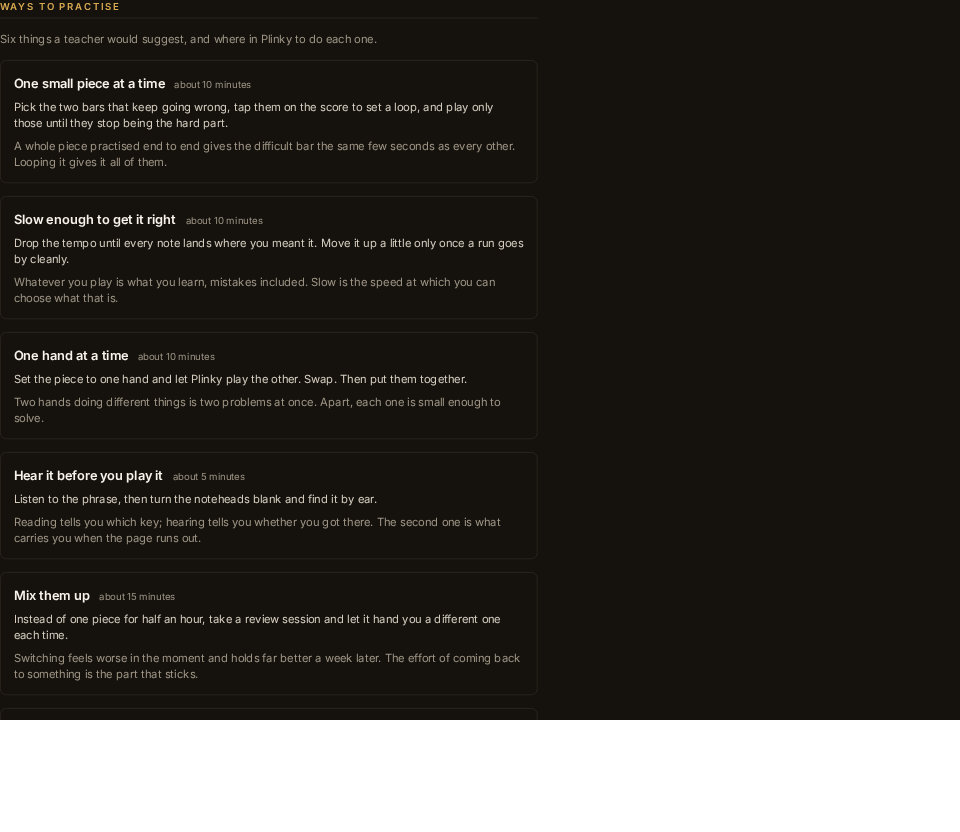
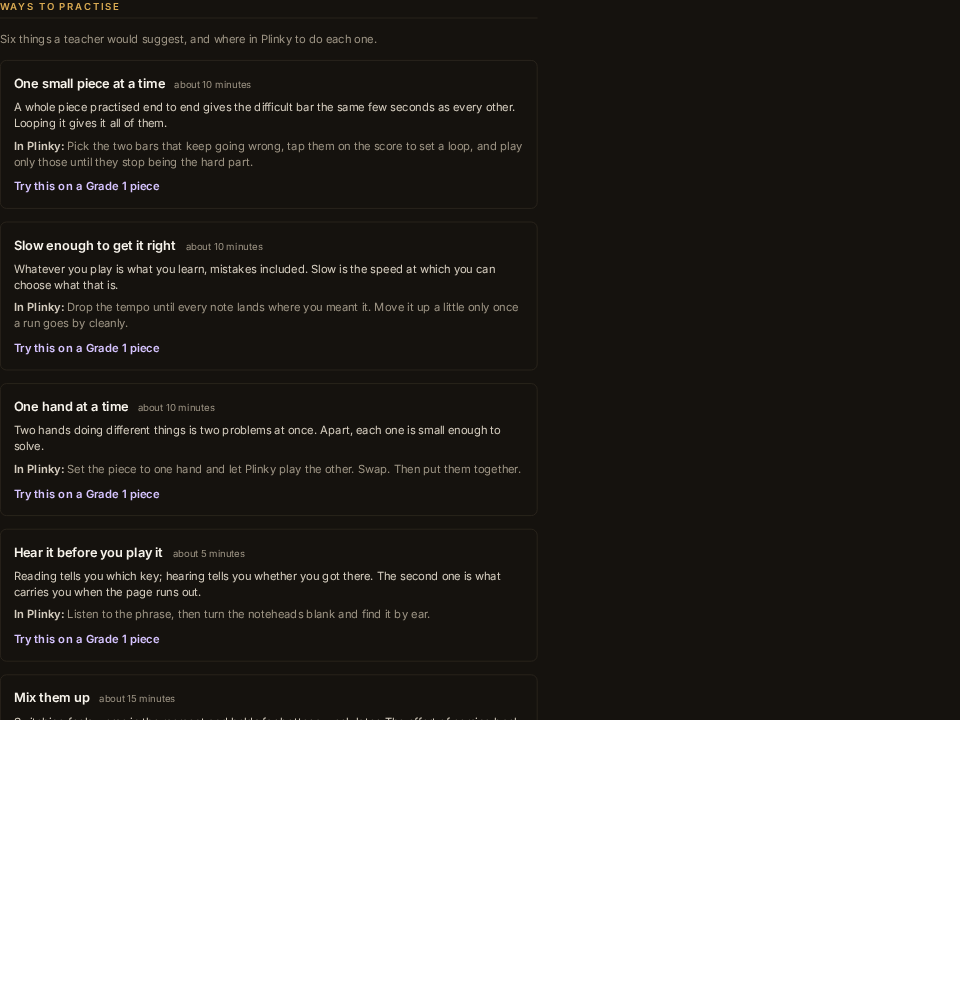
feat(methods): each way to practise opens a piece with it already set up
The page named six methods and pointed at the controls in words. It now hands you
the control: every method carries a button that opens a piece at the player's own
grade with the method already applied — sixty per cent tempo, left hand alone, a
loop over the opening phrase. A suggestion that ends at "go and find something"
is advice rather than practice, and a library of three thousand pieces is a wall
to the beginner this page is written for.

The reason now leads and the instruction follows it under "In Plinky". Somebody
who does not yet know why looping two bars beats replaying the piece will not
reach for the loop, and the why is the half a beginner has never been told.

Mixing pieces up and coming back to something later point at the review queue
instead. Handing over a piece chosen at random would be the exact opposite of
both methods — deciding which piece and when is the queue's whole job.

Which piece each button offers is seeded by the method id, so it is stable across
a re-render rather than swapping under somebody who is reading it, and the six do
not all offer the same piece. No button at all where the grade holds nothing: one
that says "try this" and lands nowhere is worse than the reading alone.

The home page's own "just start something" already exists as Surprise me, which
is grade-aware, mastery-aware and ordered gentlest-first — nothing to add there.

App budget 375 to 376 KB.

Changed region(s): [[0.0, 0.6875, 1.0, 0.875], [0.0, 0.0, 0.5625, 0.375], [0.0, 0.4062, 0.5312, 0.6562]]

diff --git a/app/components/features/practiceMethods.tsx b/app/components/features/practiceMethods.tsx
@@ -1,7 +1,12 @@
 // SPDX-FileCopyrightText: The Plinky Authors
 // SPDX-License-Identifier: AGPL-3.0-or-later
 
-import { type MethodId, METHODS } from "../../../core/practiceMethods";
+import { Link } from "react-router";
+import { pickForGrade } from "../../../core/pickForGrade";
+import { playOptionsQuery } from "../../../core/playOptions";
+import { type MethodId, METHODS, type PracticeMethod } from "../../../core/practiceMethods";
+import { useMusicItems } from "../../hooks/useMusicItems";
+import { useServices } from "../../contexts/services";
 import { Card } from "../ui/card";
 import { sectionHeadingClasses } from "../ui/classes";
 import { m } from "../../paraglide/messages.js";
@@ -33,14 +38,55 @@ const WHY: Record<MethodId, () => string> = {
     spacing: () => m.method_spacing_why(),
 };
 
-// Six ways to practise: what each one is, how long a go at it takes, and why it works.
+// One method's own button. It opens a piece at the player's grade with the method already
+// set up — slowed down, one hand, looping the opening phrase — because a suggestion that
+// ends at "go and find something" is advice rather than practice, and a library of three
+// thousand pieces is a wall to the beginner this page is written for.
 //
-// Nothing here carries an action. Three of the six are done with a control inside a run's
-// set-up panel, so a button could only ever land on the catalogue and leave the reader to
-// find the control — and four of them pointed at the library, which made a page of advice
-// read as a row of ways to go somewhere else. The reading is the point; the practice is
-// wherever the player already was.
+// The two methods that are not about a single piece point at the review queue instead.
+// Handing somebody a random piece would be the exact opposite of "mix them up" and "come
+// back to it later": the queue's whole job is choosing which piece and when.
+//
+// No button at all when the grade holds nothing to offer — a dead button that says "try
+// this" and lands nowhere is worse than the reading alone.
+function MethodAction({ method, grade }: { method: PracticeMethod; grade: number }) {
+    const { items } = useMusicItems();
+
+    if (method.route) {
+        return (
+            <Link
+                to={method.route}
+                className="inline-block text-sm font-semibold text-accent-strong hover:underline"
+            >
+                {m.methods_review()}
+            </Link>
+        );
+    }
+    // Seeded by the method, so each suggestion offers its own piece and none of them
+    // changes under the reader on a re-render.
+    const piece = pickForGrade(items, grade, method.id);
+    if (!piece || !method.opens) return null;
+    return (
+        <Link
+            to={`/play/${piece.id}${playOptionsQuery(method.opens)}`}
+            className="inline-block text-sm font-semibold text-accent-strong hover:underline"
+        >
+            {m.methods_try({ grade })}
+        </Link>
+    );
+}
+
+// Six ways to practise: why each one works, what Plinky gives you to do it with, and a
+// button that opens a piece with it already set up.
+//
+// The reason leads and the instruction follows, because somebody who does not yet know why
+// looping two bars beats playing the piece again will not reach for the loop. The button is
+// last: read, then do.
 export function PracticeMethods() {
+    const services = useServices();
+    // Read every render rather than memoised — a grade reached while the page is open
+    // should change what the buttons offer.
+    const grade = Math.max(1, services.milestones.reachedGrade());
     return (
         <section className="space-y-4">
             <h2 className={sectionHeadingClasses}>{m.methods_title()}</h2>
@@ -58,8 +104,17 @@ export function PracticeMethods() {
                                     {m.methods_dose({ count: method.minutes })}
                                 </span>
                             </div>
-                            <p className="text-sm text-body">{HOW[method.id]()}</p>
-                            <p className="text-sm text-muted">{WHY[method.id]()}</p>
+                            {/* The reason first: it is what makes the instruction worth
+                                following, and it is the half a beginner has never been
+                                told. */}
+                            <p className="text-sm text-body">{WHY[method.id]()}</p>
+                            <p className="text-sm text-muted">
+                                <span className="font-semibold text-body">
+                                    {m.methods_in_plinky()}:
+                                </span>{" "}
+                                {HOW[method.id]()}
+                            </p>
+                            <MethodAction method={method} grade={grade} />
                         </Card>
                     </li>
                 ))}

diff --git a/app/components/features/practiceMethods.test.tsx b/app/components/features/practiceMethods.test.tsx
@@ -2,28 +2,83 @@
 // SPDX-License-Identifier: AGPL-3.0-or-later
 // @vitest-environment jsdom
 
-import { cleanup, render, screen } from "@testing-library/react";
+import { cleanup, screen, waitFor } from "@testing-library/react";
+import { MemoryRouter } from "react-router";
 import { afterEach, describe, expect, it } from "vitest";
 import { METHODS } from "../../../core/practiceMethods";
 import { m } from "../../paraglide/messages.js";
+import { renderWithServices } from "../../testing/renderWithServices";
 import { PracticeMethods } from "./practiceMethods";
+
+const mount = () =>
+    renderWithServices(
+        <MemoryRouter>
+            <PracticeMethods />
+        </MemoryRouter>,
+    );
 
 afterEach(cleanup);
 
 describe("PracticeMethods", () => {
     it("names every method with its dose", () => {
-        render(<PracticeMethods />);
+        mount();
         expect(screen.getByRole("heading", { name: m.methods_title() })).toBeTruthy();
         expect(screen.getAllByRole("listitem")).toHaveLength(METHODS.length);
         expect(screen.getByText(m.method_chunking_name())).toBeTruthy();
         expect(screen.getByText(m.methods_dose({ count: 15 }))).toBeTruthy();
     });
 
-    it("offers nothing to press", () => {
-        render(<PracticeMethods />);
-        // Three of the six are done with a control inside a run, so a button could only
-        // land on a catalogue — the reading is the whole of it.
-        expect(screen.queryAllByRole("link")).toHaveLength(0);
-        expect(screen.queryAllByRole("button")).toHaveLength(0);
+    it("leads with the reason and follows with what Plinky gives you", () => {
+        mount();
+        // Somebody who does not know why looping two bars beats replaying the piece will
+        // not reach for the loop, so the reason comes first and is not labelled.
+        expect(screen.getByText(m.method_chunking_why())).toBeTruthy();
+        expect(screen.getAllByText(`${m.methods_in_plinky()}:`).length).toBe(METHODS.length);
+    });
+
+    it("sends the two methods that are not about one piece to the review queue", async () => {
+        mount();
+        await waitFor(() => {
+            const review = screen.getAllByRole("link", { name: m.methods_review() });
+            expect(review).toHaveLength(2);
+            for (const link of review) {
+                expect(link.getAttribute("href")).toContain("/review");
+            }
+        });
+    });
+
+    it("opens a piece with the method already set up on it", async () => {
+        mount();
+        // The four methods that are about one piece each offer a piece, and the address
+        // carries the method: the button IS the control, not a signpost to it.
+        await waitFor(() => {
+            const hrefs = screen
+                .getAllByRole("link")
+                .map((link) => link.getAttribute("href") ?? "")
+                .filter((href) => href.startsWith("/play/"));
+            expect(hrefs).toHaveLength(4);
+            expect(hrefs.some((href) => href.includes("speed=0.6"))).toBe(true);
+            expect(hrefs.some((href) => href.includes("hands=left"))).toBe(true);
+            expect(hrefs.some((href) => href.includes("loop=1-4"))).toBe(true);
+            // Hearing it first needs no set-up in the address — the switch is on the
+            // surface the link opens.
+            expect(hrefs.some((href) => !href.includes("?"))).toBe(true);
+        });
+    });
+
+    it("offers each method its own piece rather than the same one six times", async () => {
+        mount();
+        await waitFor(() => {
+            const pieces = screen
+                .getAllByRole("link")
+                .map((link) => link.getAttribute("href") ?? "")
+                .filter((href) => href.startsWith("/play/"))
+                .map((href) => href.split("?")[0]);
+            expect(pieces).toHaveLength(4);
+            // Seeded by method id, so which piece each one offers is stable but they are
+            // not all the same piece — on a shelf with only the bundled demos on it, at
+            // least two of the four differ.
+            expect(new Set(pieces).size).toBeGreaterThan(1);
+        });
     });
 });

diff --git a/core/practiceMethods.ts b/core/practiceMethods.ts
@@ -13,6 +13,8 @@
 // Ids only, no words: the labels live in the message catalogue like the theory
 // exercise names do, so this stays translatable without translating anything here.
 
+import type { PlayOptions } from "./playOptions";
+
 export type MethodId =
     | "chunking"
     | "slow"
@@ -26,15 +28,31 @@ export type PracticeMethod = {
     // Roughly how long one go at it takes, in minutes — the "dose" that turns a
     // method from an idea into something that fits in tonight's practice.
     minutes: number;
+    // How a piece opens when the method's own button is pressed, so the suggestion hands
+    // over the control that does the thing rather than describing where to find it.
+    // Absent where the method is not about one piece at all: mixing pieces up and coming
+    // back to something later are answered by the review queue, which has its own page.
+    opens?: PlayOptions;
+    // Where the button goes when the method is not a piece to open.
+    route?: string;
 };
 
 export const METHODS: PracticeMethod[] = [
-    { id: "chunking", minutes: 10 },
-    { id: "slow", minutes: 10 },
-    { id: "handsApart", minutes: 10 },
+    // Bars 1 to 4 rather than "the hard part": nothing here knows which bars are hard, and
+    // opening the loop over the first phrase at least starts you inside the control, with
+    // the bars adjustable from the bar itself.
+    { id: "chunking", minutes: 10, opens: { loop: { from: 1, to: 4 } } },
+    // Sixty per cent: slow enough that the notes have time to be chosen, fast enough that
+    // the piece is still a piece.
+    { id: "slow", minutes: 10, opens: { speed: 0.6 } },
+    { id: "handsApart", minutes: 10, opens: { hands: "left" } },
     // Its own words are "listen to the phrase, then turn the noteheads blank and find it
-    // by ear" — which is the hidden-notes switch on a piece, not the interval drill.
-    { id: "hearingFirst", minutes: 5 },
-    { id: "interleaving", minutes: 15 },
-    { id: "spacing", minutes: 10 },
+    // by ear" — which is the hidden-notes switch on a piece, not the interval drill. It
+    // opens the piece plain; the switch is on the surface it opens.
+    { id: "hearingFirst", minutes: 5, opens: {} },
+    // These two are not about one piece. Mixing them up IS the review session, and coming
+    // back later is the queue deciding when — so both point at the page that does it
+    // rather than at a piece chosen at random, which would be the opposite of the method.
+    { id: "interleaving", minutes: 15, route: "/review" },
+    { id: "spacing", minutes: 10, route: "/review" },
 ];

diff --git a/app/components/features/practiceMethods.stories.tsx b/app/components/features/practiceMethods.stories.tsx
@@ -19,7 +19,8 @@ export default meta;
 
 type Story = StoryObj<typeof PracticeMethods>;
 
-// Six ways to practise: what each is, how long a go takes, and why it works.
-// Nothing here carries an action — the reading is the point, and the practice is
-// wherever the player already was.
+// Six ways to practise: why each one works, what Plinky gives you to do it with, and a
+// button that opens a piece with the method already set up on it. The reason leads,
+// because somebody who does not know why looping two bars beats replaying the piece will
+// not reach for the loop.
 export const All: Story = {};

diff --git a/README.md b/README.md
@@ -553,10 +553,17 @@ schedule rather than from anything you set. Give a piece a date you're working t
 — an exam, a recital, a lesson — and it moves to the top with the days counted down.
 
 **[Ways to practise](https://plinky.fun/en/methods/)** names six things a teacher
-would suggest, says what each is for, and hands you straight to the Plinky control
+would suggest, says why each one works, and hands you straight to the Plinky control
 that does it: looping the two bars that keep going wrong, dropping the tempo until
 the notes land, taking one hand at a time, hearing a phrase before playing it, mixing
 pieces up in a review session, and letting a piece go quiet before coming back to it.
+Each one carries a button that opens a piece at your own grade with the method already
+set up — slowed down, one hand, or looping the opening phrase.
+
+A piece can also be opened that way by hand, which is useful for a teacher: adding
+`?speed=0.6&hands=left&loop=5-8` to a `/play/` address opens it at sixty per cent of
+its marked tempo, left hand only, looping bars 5 to 8. `transpose` takes semitones.
+Every one of them is a starting value you can change the moment the piece is open.
 
 ## Taking your progress with you
 

diff --git a/NEWS.md b/NEWS.md
@@ -10,6 +10,14 @@ it's ready. This is what's changed, newest first, in plain terms.
 
 ## 23 August 2026
 
+**Ways to practise now hands you the piece, not just the advice.** Each of the six
+methods leads with why it works, says what in Plinky does it, and carries a button
+that opens a piece at your own grade with the method already set up — slowed down,
+one hand only, or looping the opening phrase. You can write one of these links
+yourself too, which is handy for a teacher: adding `?speed=0.6&hands=left` to a
+piece's address opens it at sixty per cent with the left hand alone. Everything a
+link sets is a starting point you can change straight away.
+
 **Dark mode is the colour of the instrument now.** It used to be violet everywhere —
 the page, the cards, the hairlines, even the text — so the violet that means "press
 this" had nothing to stand out from. The walls are ebony and rosewood instead, a warm
